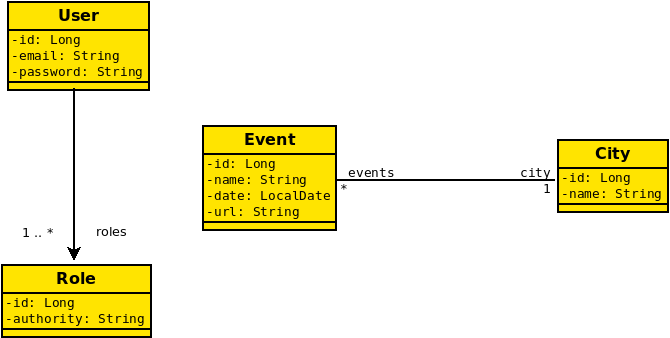
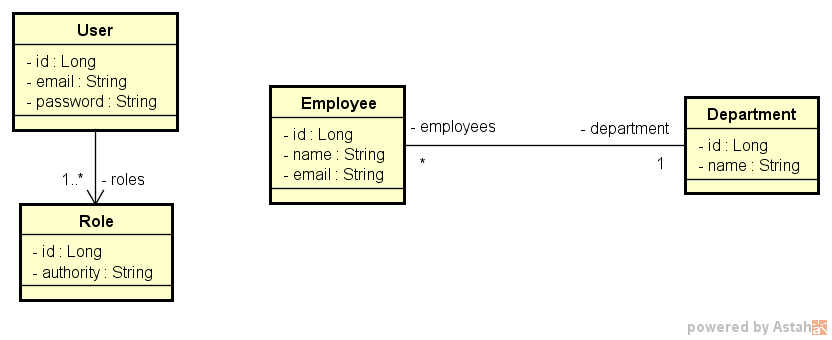
Update README

diff --git a/README.md b/README.md
@@ -1,50 +1,16 @@
-# Events
+# Employees
 
 # Sobre o projeto
 
-Events é uma aplicação back end desenvolvida com Spring Boot para implementar um CRUD completo de web services REST para acessar os recursos de Cities, Events e Users.
-Neste sistema, somente as rotas de leitura (GET) de eventos e cidades são públicas (não precisa de login). Usuários CLIENT podem também inserir (POST) novos eventos. 
-Os demais acessos são permitidos apenas a usuários ADMIN. O projeto foi desenvolvido empregando o padrão TDD(Test Driven Development) e foi solicitado como um trabalho 
-final do segundo e terceiro capítulo do Bootcamp Spring React da DevSuperior.
+Employees é uma aplicação back end desenvolvida com Spring Boot para implementar um CRUD completo de web services REST para acessar os recursos de Employees, Departments e Users.
+Neste sistema, todas as rotas são protegidas. Usuários ADMIN podem ler e alterar recursos, enquanto que usuários OPERATOR podem apenas ler(GET) os recursos, as seguintes validações
+foram utilizadas:
 
-Capítulo 2: 
-
-Fundamentos de testes automatizados:
-- Tipos de testes
-- Benefícios
-- TDD - Test Driven Development
-- Boas práticas e padrões
-JUnit:
-- Básico (vanilla)
-JUnit Spring Boot:
-- Repositories
-- Services
-- Resources (web)
-- Integração
-Mockito & MockBean:
-- @Mock
-- @InjectMocks
-- Mockito.when / thenReturn / doNothing / doThrow
-- ArgumentMatchers
-- Mockito.verify
-- @MockBean
-- @MockMvc
-
-Capítulo 3:
-
-Modelo de dados de usuários e perfis:
-- User
-- Role
-Validação com Bean Validation:
-- Annotations
-- Customizando a resposta HTTP
-- Validações personalizadas com acesso a banco
-Autenticação e autorização:
-- Spring Security
-- OAuth 2.0
-- Token JWT
-- Autorização de rotas por perfil
-
+ - Nome não pode ser vazio.
+ - E-mail deve ser válido.
+ - Departamento não pode ser nulo.
+ 
+O projeto foi desenvolvido empregando o padrão TDD(Test Driven Development) .
 
 # Modelo Conceitual
 
@@ -77,7 +43,7 @@ Pré-requisito: Java 11
 
 ```bash
 # clonar repositório
-git clone https://github.com/galetedanilo/events.git
+git clone https://github.com/galetedanilo/employees.git
 
 # entrar na pasta do back end
 cd backend
